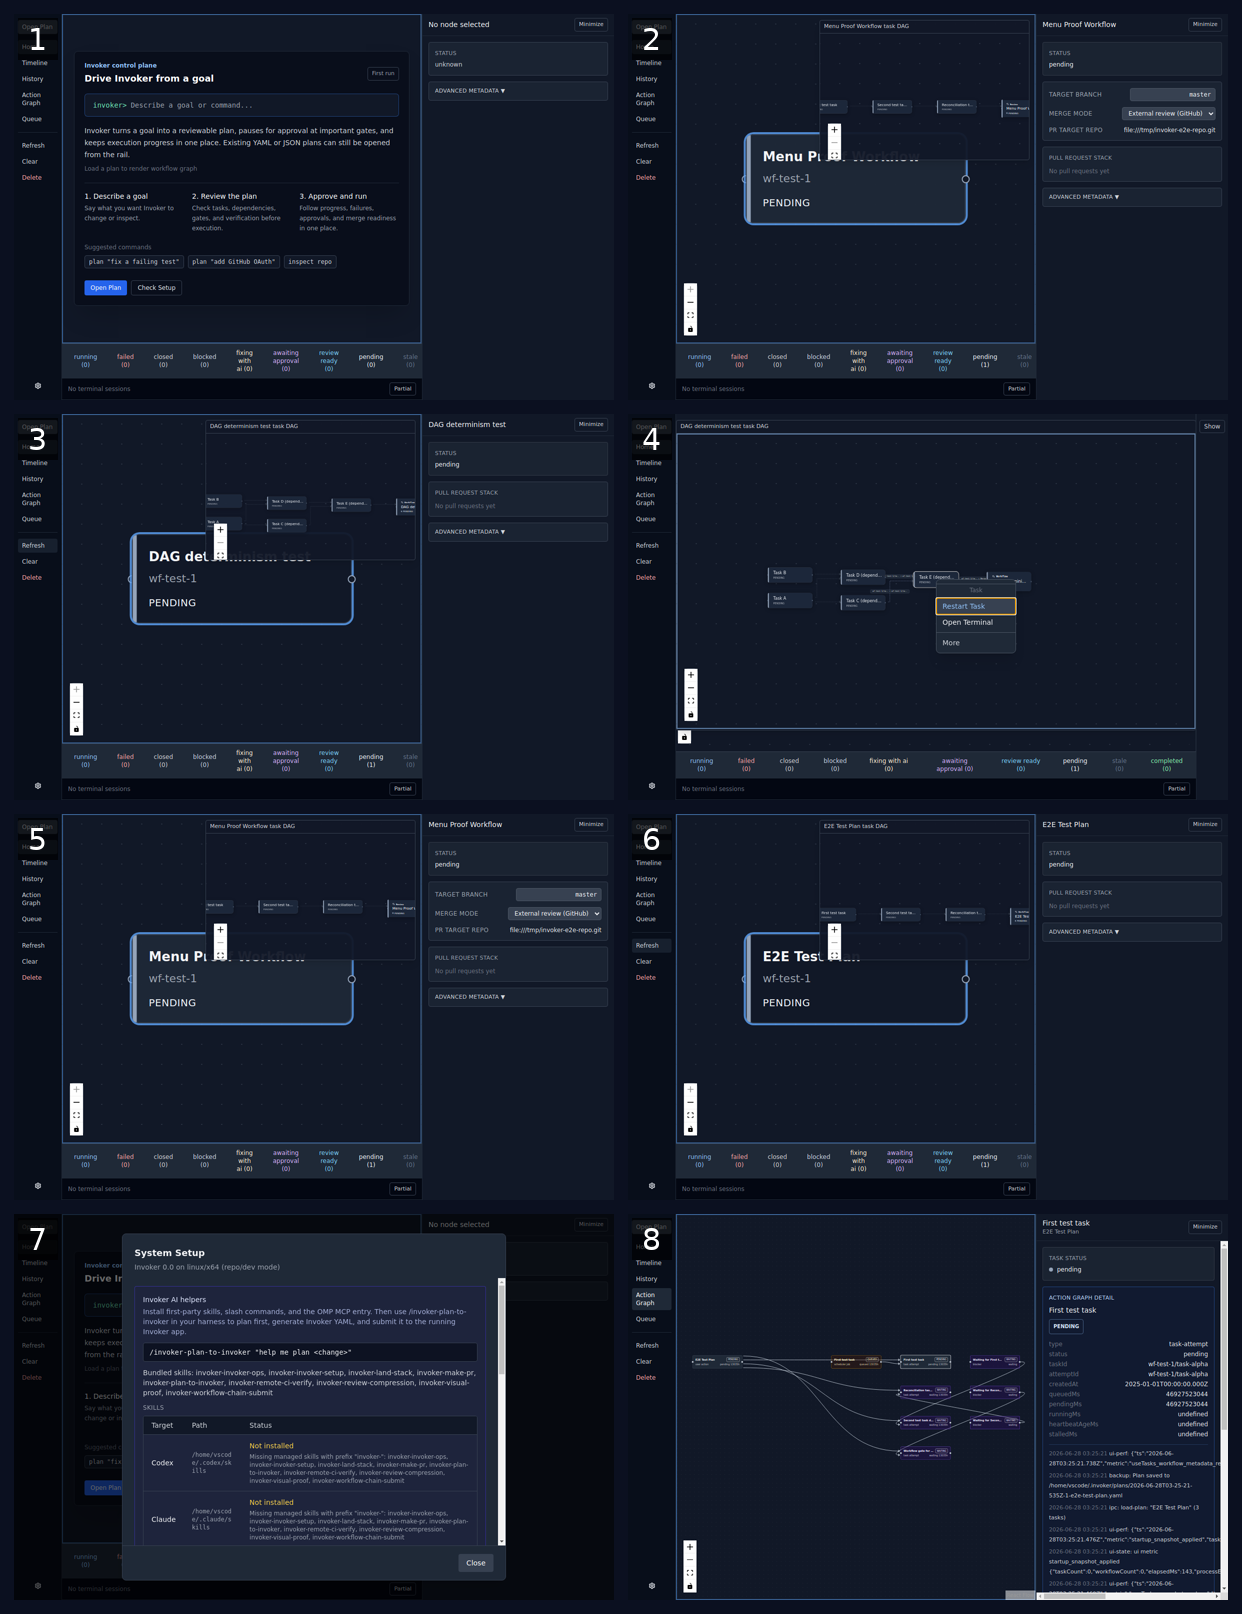
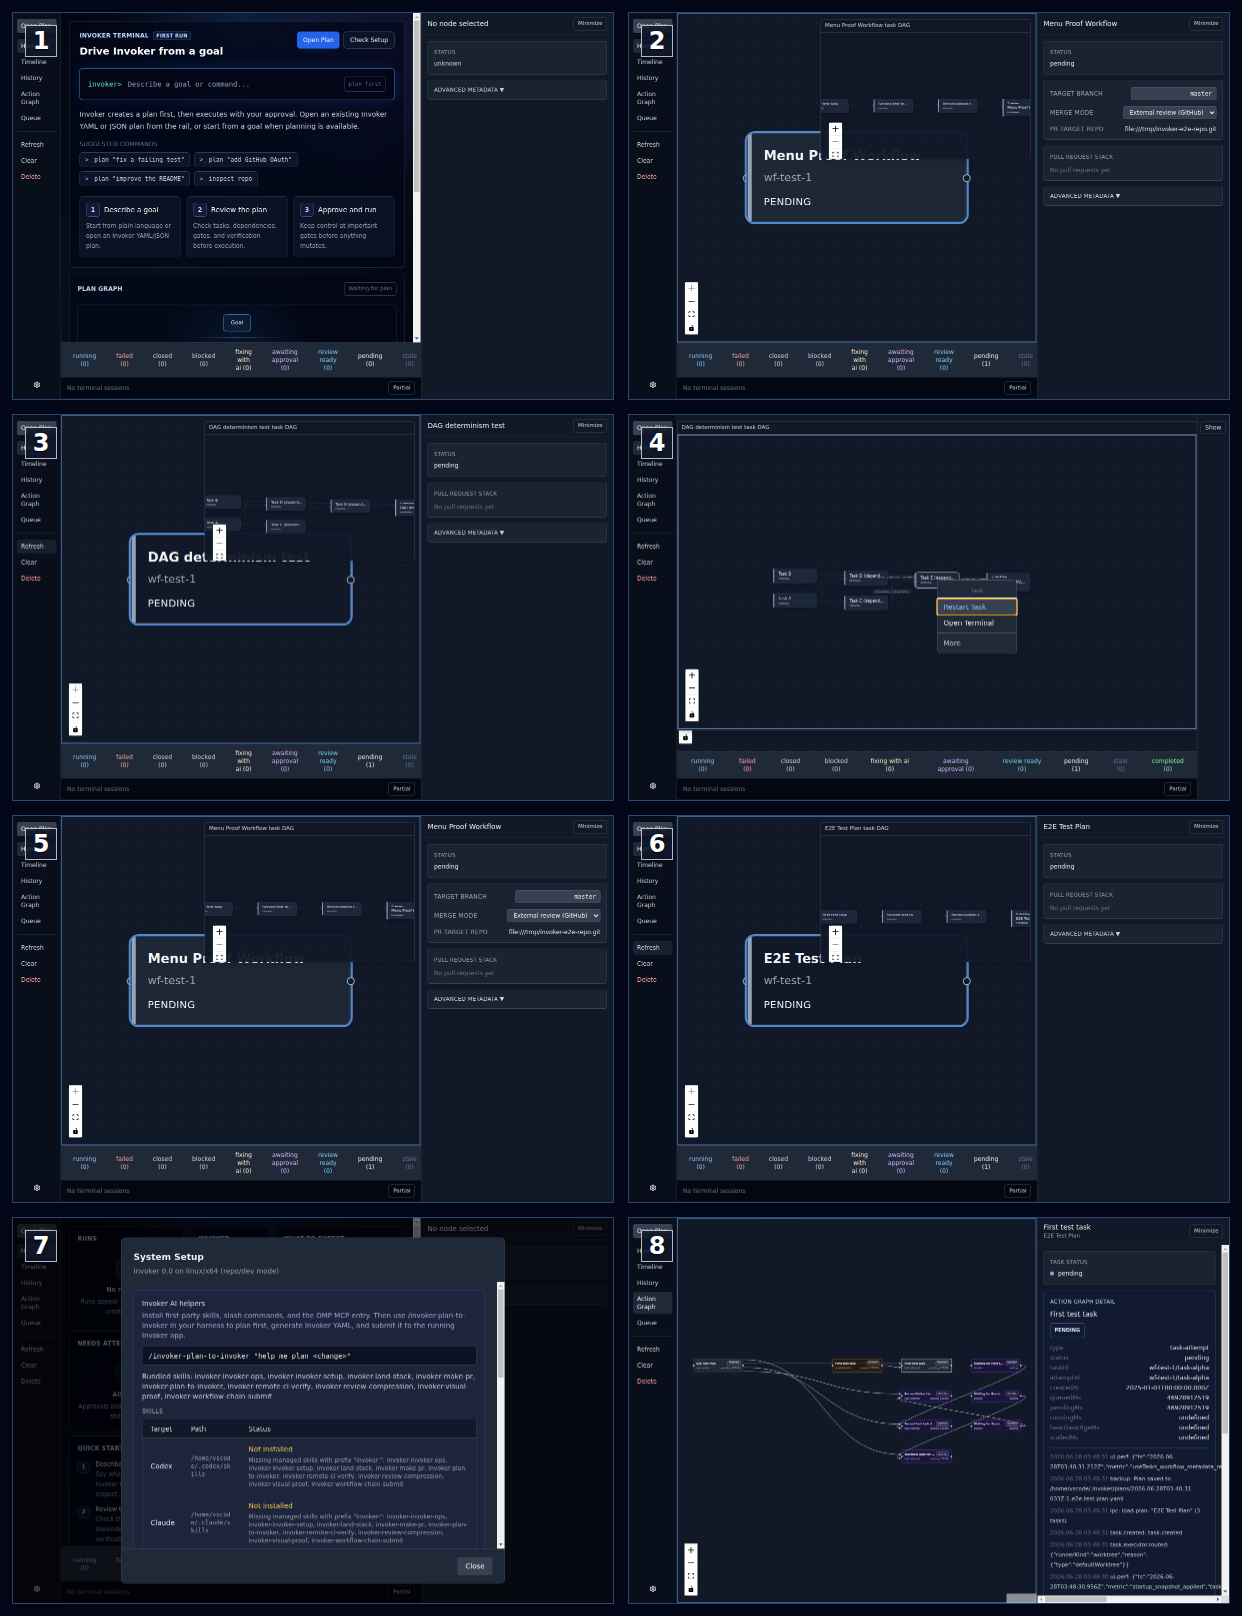
Polish first-run control plane

diff --git a/packages/ui/src/components/WorkflowGraph.tsx b/packages/ui/src/components/WorkflowGraph.tsx
@@ -61,102 +61,177 @@ function WorkflowGraphEmptyState({
   const suggestedCommands = [
     'plan "fix a failing test"',
     'plan "add GitHub OAuth"',
+    'plan "improve the README"',
     'inspect repo',
+  ];
+  const firstRunSteps = [
+    ['Describe a goal', 'Start from plain language or open an Invoker YAML/JSON plan.'],
+    ['Review the plan', 'Check tasks, dependencies, gates, and verification before execution.'],
+    ['Approve and run', 'Keep control at important gates before anything mutates.'],
+  ];
+  const nextStateItems = [
+    ['Plan graph', 'The local task relationship appears here before the run starts.'],
+    ['Task terminals', 'Logs stay attached to the task and run you are inspecting.'],
+    ['Approvals', 'Schema, merge, and manual gates pause here for a decision.'],
   ];
 
   return (
     <div
       data-testid="workflow-empty-state"
-      className="flex h-full w-full items-center justify-center overflow-auto px-6 py-8 text-gray-200"
+      className="h-full w-full overflow-auto bg-[radial-gradient(circle_at_50%_0%,rgba(59,130,246,0.16),rgba(15,23,42,0)_34%),radial-gradient(circle_at_86%_18%,rgba(124,58,237,0.16),rgba(15,23,42,0)_28%),linear-gradient(135deg,#030712_0%,#07111f_54%,#050712_100%)] px-4 py-4 text-gray-200"
     >
-      <div className="w-full max-w-3xl rounded-lg border border-gray-800 bg-gray-950/55 p-5 shadow-2xl shadow-black/20">
-        <div className="mb-4 flex items-center justify-between gap-3">
-          <div>
-            <div className="text-xs font-semibold text-blue-300">
-              Invoker control plane
+      <div className="mx-auto flex min-h-full w-full max-w-5xl flex-col gap-3">
+        <section className="rounded-md border border-slate-700/70 bg-slate-950/70 p-4 shadow-2xl shadow-black/25 sm:p-5">
+          <div className="flex flex-wrap items-start justify-between gap-3">
+            <div>
+              <div className="text-xs font-semibold uppercase tracking-wide text-blue-200">
+                Invoker terminal
+                <span className="ml-2 rounded border border-blue-400/40 bg-blue-500/10 px-1.5 py-0.5 text-[10px] text-blue-200">
+                  First run
+                </span>
+              </div>
+              <h2 className="mt-2 text-xl font-semibold text-white">
+                Drive Invoker from a goal
+              </h2>
             </div>
-            <h2 className="mt-1 text-lg font-semibold text-white">
-              Drive Invoker from a goal
-            </h2>
+            {(onOpenPlan || onOpenSetup) && (
+              <div className="flex flex-wrap gap-2">
+                {onOpenPlan && (
+                  <button
+                    type="button"
+                    onClick={onOpenPlan}
+                    className="rounded-md bg-blue-600 px-3 py-2 text-xs font-medium text-white shadow-lg shadow-blue-950/30 hover:bg-blue-500"
+                  >
+                    Open Plan
+                  </button>
+                )}
+                {onOpenSetup && (
+                  <button
+                    type="button"
+                    onClick={onOpenSetup}
+                    className="rounded-md border border-slate-600 bg-slate-900/80 px-3 py-2 text-xs font-medium text-slate-100 hover:bg-slate-800"
+                  >
+                    Check Setup
+                  </button>
+                )}
+              </div>
+            )}
           </div>
-          <span className="rounded border border-gray-700 px-2 py-1 text-[11px] text-gray-400">
-            First run
-          </span>
-        </div>
 
-        <div className="rounded-md border border-blue-500/40 bg-gray-900 px-4 py-3 font-mono text-sm">
-          <span className="text-emerald-300">invoker&gt;</span>
-          <span className="ml-2 text-gray-400">Describe a goal or command...</span>
-        </div>
-
-        <p className="mt-4 max-w-2xl text-sm leading-6 text-gray-300">
-          Invoker turns a goal into a reviewable plan, pauses for approval at important gates,
-          and keeps execution progress in one place. Existing YAML or JSON plans can still be
-          opened from the rail.
-        </p>
-        <p className="mt-2 text-xs text-gray-500">
-          Load a plan to render workflow graph
-        </p>
-
-        <div className="mt-5 grid gap-4 border-t border-gray-800 pt-4 sm:grid-cols-3">
-          <div>
-            <div className="text-sm font-medium text-white">1. Describe a goal</div>
-            <div className="mt-1 text-xs leading-5 text-gray-400">
-              Say what you want Invoker to change or inspect.
-            </div>
-          </div>
-          <div>
-            <div className="text-sm font-medium text-white">2. Review the plan</div>
-            <div className="mt-1 text-xs leading-5 text-gray-400">
-              Check tasks, dependencies, gates, and verification before execution.
-            </div>
-          </div>
-          <div>
-            <div className="text-sm font-medium text-white">3. Approve and run</div>
-            <div className="mt-1 text-xs leading-5 text-gray-400">
-              Follow progress, failures, approvals, and merge readiness in one place.
-            </div>
-          </div>
-        </div>
-
-        <div className="mt-5">
-          <div className="text-xs font-medium text-gray-500">
-            Suggested commands
-          </div>
-          <div className="mt-2 flex flex-wrap gap-2">
-            {suggestedCommands.map((command) => (
-              <span
-                key={command}
-                className="rounded border border-gray-700 bg-gray-900 px-2 py-1 font-mono text-xs text-gray-300"
-              >
-                {command}
+          <div className="mt-5 rounded-md border border-blue-400/70 bg-slate-950 px-4 py-4 shadow-[0_0_30px_rgba(37,99,235,0.2)]">
+            <div className="flex items-center gap-3 font-mono text-sm">
+              <span className="text-emerald-300">invoker&gt;</span>
+              <span className="min-w-0 flex-1 truncate text-slate-400">
+                Describe a goal or command...
               </span>
+              <span className="hidden rounded border border-slate-700 px-2 py-1 text-[11px] text-slate-500 sm:inline">
+                plan first
+              </span>
+            </div>
+          </div>
+
+          <p className="mt-4 max-w-3xl text-sm leading-6 text-slate-300">
+            Invoker creates a plan first, then executes with your approval. Open an existing
+            Invoker YAML or JSON plan from the rail, or start from a goal when planning is available.
+          </p>
+
+          <div className="mt-4">
+            <div className="text-xs font-medium uppercase tracking-wide text-slate-500">
+              Suggested commands
+            </div>
+            <div className="mt-2 flex flex-wrap gap-2">
+              {suggestedCommands.map((command) => (
+                <span
+                  key={command}
+                  className="rounded-md border border-slate-700 bg-slate-900/80 px-2.5 py-1.5 font-mono text-xs text-slate-300"
+                >
+                  <span className="mr-1 text-blue-300">&gt;_</span>
+                  <span>{command}</span>
+                </span>
+              ))}
+            </div>
+          </div>
+
+          <div className="mt-5 grid gap-3 md:grid-cols-3">
+            {firstRunSteps.map(([title, body], index) => (
+              <div
+                key={title}
+                className="rounded-md border border-slate-800 bg-slate-900/70 p-3"
+              >
+                <div className="flex items-center gap-2">
+                  <div className="flex h-7 w-7 items-center justify-center rounded-md border border-violet-400/40 bg-violet-500/10 text-xs font-semibold text-violet-200">
+                    {index + 1}
+                  </div>
+                  <div className="text-sm font-medium text-white">{title}</div>
+                </div>
+                <div className="mt-2 text-xs leading-5 text-slate-400">{body}</div>
+              </div>
             ))}
           </div>
-        </div>
+        </section>
 
-        {(onOpenPlan || onOpenSetup) && (
-          <div className="mt-6 flex flex-wrap gap-2">
-            {onOpenPlan && (
-              <button
-                type="button"
-                onClick={onOpenPlan}
-                className="rounded bg-blue-600 px-3 py-1.5 text-xs font-medium text-white hover:bg-blue-500"
-              >
-                Open Plan
-              </button>
-            )}
-            {onOpenSetup && (
-              <button
-                type="button"
-                onClick={onOpenSetup}
-                className="rounded border border-gray-700 px-3 py-1.5 text-xs font-medium text-gray-200 hover:bg-gray-800"
-              >
-                Check Setup
-              </button>
-            )}
-          </div>
-        )}
+        <div className="grid gap-3 xl:grid-cols-[minmax(0,1fr)_320px]">
+          <section className="rounded-md border border-slate-700/70 bg-slate-950/60 p-4 shadow-2xl shadow-black/20">
+            <div className="flex items-center justify-between gap-3">
+              <div className="text-xs font-semibold uppercase tracking-wide text-slate-300">
+                Plan graph
+              </div>
+              <span className="rounded border border-slate-700 px-2 py-1 text-[11px] text-slate-500">
+                Waiting for plan
+              </span>
+            </div>
+            <div className="mt-4 flex min-h-[185px] items-center justify-center rounded-md border border-slate-800 bg-[radial-gradient(circle_at_center,rgba(56,189,248,0.08),rgba(15,23,42,0)_46%)] px-4 py-5">
+              <div className="text-center">
+                <div className="mx-auto grid w-48 grid-cols-3 gap-x-3 gap-y-3">
+                  <div className="col-start-2 rounded-md border border-blue-400/75 bg-blue-500/10 px-3 py-2 text-[11px] text-blue-100">
+                    Goal
+                  </div>
+                  <div className="col-span-3 h-px bg-gradient-to-r from-transparent via-slate-600 to-transparent" />
+                  <div className="rounded-md border border-emerald-400/50 bg-emerald-500/10 px-2 py-2 text-[11px] text-emerald-100">
+                    Task
+                  </div>
+                  <div className="rounded-md border border-violet-400/50 bg-violet-500/10 px-2 py-2 text-[11px] text-violet-100">
+                    Gate
+                  </div>
+                  <div className="rounded-md border border-amber-400/50 bg-amber-500/10 px-2 py-2 text-[11px] text-amber-100">
+                    Merge
+                  </div>
+                </div>
+                <div className="mt-4 text-sm font-medium text-white">Your plan will appear here.</div>
+                <div className="mt-1 text-xs leading-5 text-slate-400">
+                  Review tasks, gates, and dependencies before anything runs.
+                </div>
+              </div>
+            </div>
+          </section>
+
+          <aside className="rounded-md border border-slate-700/70 bg-slate-950/60 p-4 shadow-2xl shadow-black/20">
+            <div className="text-xs font-semibold uppercase tracking-wide text-slate-300">
+              What appears next
+            </div>
+            <div className="mt-4 space-y-3">
+              {nextStateItems.map(([title, body]) => (
+                <div key={title} className="rounded-md border border-slate-800 bg-slate-900/70 p-3">
+                  <div className="text-sm font-medium text-white">{title}</div>
+                  <div className="mt-1 text-xs leading-5 text-slate-400">{body}</div>
+                </div>
+              ))}
+            </div>
+            <div className="mt-4 rounded-md border border-blue-400/40 bg-blue-500/10 p-3">
+              <div className="flex items-center gap-3">
+                <div className="flex h-9 w-9 shrink-0 items-center justify-center rounded-md border border-blue-400/40 bg-slate-950/60 font-mono text-sm text-blue-200">
+                  &gt;_
+                </div>
+                <div>
+                  <div className="text-sm font-medium text-white">Logs appear after tasks start.</div>
+                  <div className="mt-1 text-xs leading-5 text-slate-400">
+                    Terminal output stays attached to each task.
+                  </div>
+                </div>
+              </div>
+            </div>
+          </aside>
+        </div>
       </div>
     </div>
   );

diff --git a/packages/app/e2e/visual-proof.spec.ts b/packages/app/e2e/visual-proof.spec.ts
@@ -421,7 +421,8 @@ async function seedActiveLaunchAttempt(dbPath: string, taskId: string, attemptId
 
 test.describe('Visual proof capture', () => {
   test('empty state', async ({ page }) => {
-    await expect(page.getByText('Load a plan to render workflow graph')).toBeVisible({ timeout: 5000 });
+    await expect(page.getByText('Drive Invoker from a goal')).toBeVisible({ timeout: 5000 });
+    await expect(page.getByText('Your plan will appear here.')).toBeVisible();
     await expect(page.getByTestId('rail-open-file')).toBeVisible();
     await expect(page.getByTestId('rail-settings')).toBeVisible();
     await captureScreenshot(page, 'empty-state');

diff --git a/packages/ui/src/__tests__/visual-proof-snapshots.test.tsx b/packages/ui/src/__tests__/visual-proof-snapshots.test.tsx
@@ -33,7 +33,8 @@ describe('Visual proof snapshots', () => {
 
   it('empty-state', () => {
     render(<App />);
-    expect(screen.getByText('Load a plan to render workflow graph')).toBeInTheDocument();
+    expect(screen.getByText('Drive Invoker from a goal')).toBeInTheDocument();
+    expect(screen.getByText('Your plan will appear here.')).toBeInTheDocument();
     expect(screen.getByTestId('rail-open-file')).toBeInTheDocument();
     expect(screen.getByRole('button', { name: 'Home' })).toBeInTheDocument();
     expect(screen.queryByText('System Setup')).not.toBeInTheDocument();